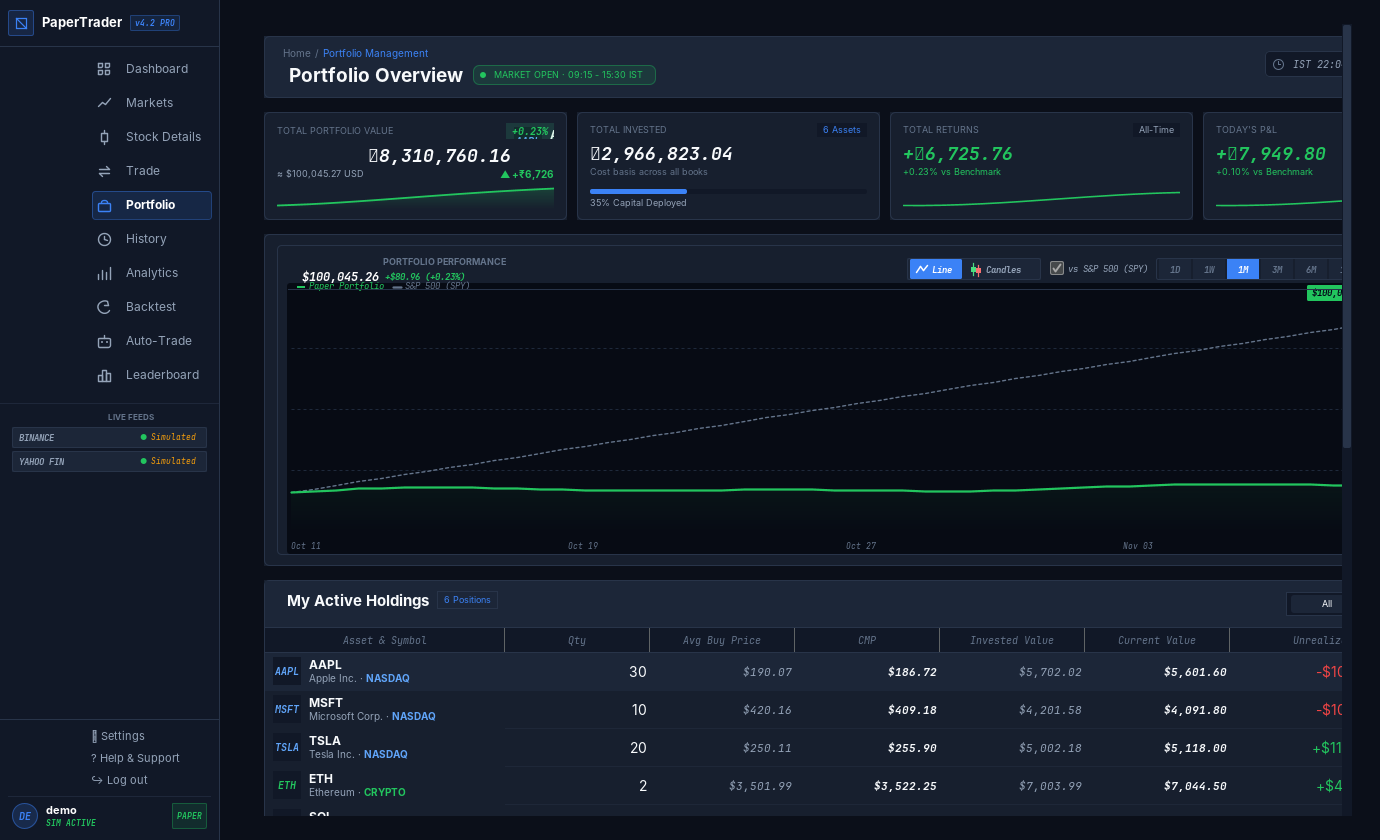
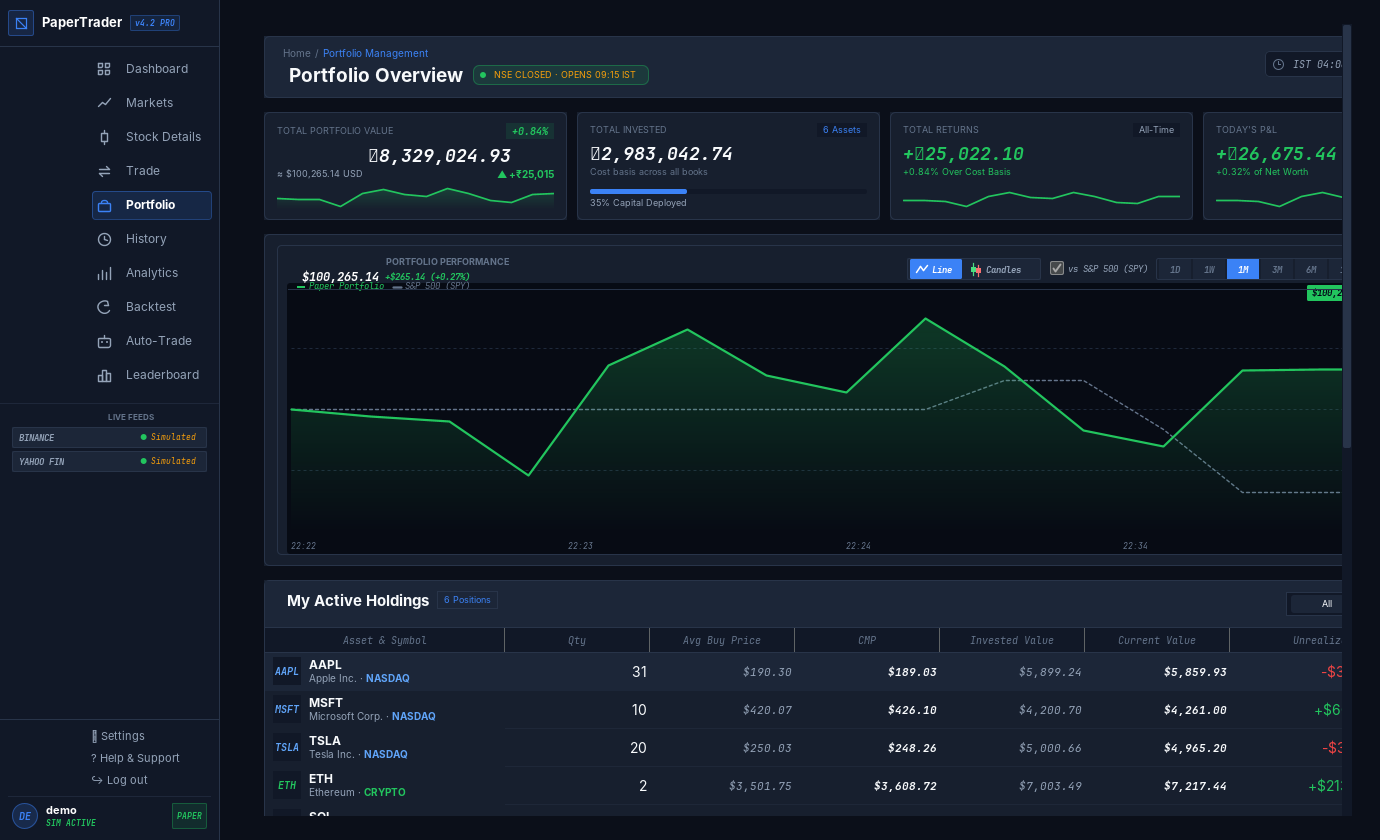
Spiral loop 7: document real market data, trade statistics and new tests
README, SRS (FR-38 to FR-44, interfaces, traceability), Spiral model loop 7
and the OOP/SOLID mapping now describe MarketDataService, the fundamentals
and CoinGecko providers, TechnicalAnalysis and TradeStats. Test count is 68.

diff --git a/README.md b/README.md
@@ -33,6 +33,9 @@ and low coupling, an SRS using **FODA**, 4 UML diagrams, and the **Spiral** SDLC
 | Backtesting | Replay a year of **real daily candles** at **1x / 2x / 5x** or instantly. Strategies: SMA crossover, RSI, Buy & Hold, or your own price rule. Buy/sell arrows on the chart, equity curve, and comparison to buy & hold. |
 | Risk analytics | **Sharpe, Sortino, max drawdown, win rate, profit factor**, total return and an equity curve, both for your account and for every backtest. |
 | Auto-trading | Start **bots** that follow a strategy or a custom IF/THEN price rule and place real paper orders, with a live activity log. |
+| Market overview | Real index levels (NIFTY 50, SENSEX, BANK NIFTY, NIFTY IT, S&P 500, NASDAQ 100, DOW, RUSSELL 2000), India VIX / VIX, total crypto market cap, market breadth, turnover, sector heatmap and "most active / volume surge / near 52-week high" cards, all calculated from live data. |
+| Stock details | Real day and 52-week ranges, volume, VWAP, market cap, P/E, EPS, dividend yield, beta, yearly revenue/profit, margins, debt/equity, major holders, analyst target, a technical rating from 13 indicators, peers and latest news. Missing values show **N/A**, never made-up numbers. |
+| Trade history analytics | Win rate, profit factor, streaks, average holding time (FIFO), best/worst asset, daily P&L bars, monthly P&L calendar, short/long-term capital gains and a tax estimate, all from your own trades. |
 | Multi-user | Register / log in, **leaderboard** ranking all traders by net worth, **reset account** to start over. |
 | 3D | Rotatable JavaFX 3D portfolio chart, spinning 3D coin on the login screen. |
 
@@ -42,7 +45,7 @@ Requirements: **Java 17+** and **Maven** (IntelliJ IDEA / Eclipse / VS Code can 
 
 ```bash
 mvn compile exec:java          # start the app
-mvn test                       # run the 58 unit tests
+mvn test                       # run the 68 unit tests
 mvn package                    # build target/paper-trading-simulator-1.0.0.jar
 java -jar target/paper-trading-simulator-1.0.0.jar
 ```
@@ -55,7 +58,10 @@ Log in with **demo / demo** (created on first run with some sample holdings), or
 |---|---|---|---|
 | Crypto (BTC, ETH, SOL) | **Binance**: the exchange's own last traded price (USDT ≈ USD) | No | every 3 s |
 | Stocks & ETFs (AAPL, MSFT, GOOGL, TSLA, AMZN, SPY, QQQ) | **Finnhub**: official real-time US exchange quotes | Free key | every 15 s |
-| Stocks & ETFs (when no Finnhub key) | **Yahoo Finance** | No | every 15 s |
+| Stocks & ETFs (when no Finnhub key), Indian stocks (`.NS`) | **Yahoo Finance** | No | every 15 s |
+| Day/52-week stats, indices, VIX, USD/INR | **Yahoo Finance** chart API | No | every 60 s |
+| Fundamentals, holders, analyst target, news | **Yahoo Finance** quoteSummary + search | No | every 30 min / 10 min |
+| Total crypto market cap | **CoinGecko** `/global` | No | every 5 min |
 
 It works without any setup (Binance + Yahoo). For the most accurate stock prices, add a free Finnhub key:
 
@@ -97,24 +103,26 @@ src/main/java/com/papertrader/
 │                            OrderBookSimulator
 ├── strategy/                TradingStrategy ← SmaCrossover, Rsi, BuyAndHold, PriceRule; Indicators
 ├── backtest/                BacktestEngine (step-by-step historical replay)
-├── analytics/               PerformanceAnalyzer (Sharpe, Sortino, drawdown, win rate, profit factor)
+├── analytics/               PerformanceAnalyzer (Sharpe, Sortino, drawdown, win rate, profit factor),
+│                            TradeStats (FIFO holding time, streaks, capital gains from real trades)
 ├── bot/                     TradingBot, BotService (auto-trading)
 │                            User, Account, Portfolio, Holding, Transaction, enums
 ├── interfaces/              PriceFeed, PriceListener, QuoteProvider, HistoryProvider, FeeCalculator, EquityRepository,
 │                            Repository<T,ID>, TransactionRepository, Exportable
 ├── feed/                    LivePriceFeed (real prices) + Binance/Finnhub/Yahoo QuoteProviders,
+│                            YahooFundamentalsProvider, CoinGeckoGlobalProvider, Http, YahooSymbols,
 │                            SimulatedPriceFeed (offline random-walk prices)
 ├── fees/                    PercentageFeeCalculator, FlatFeeCalculator
 ├── repository/              InMemory… and File… repositories (CSV in data/)
 ├── service/                 AuthService, MarketService, TradingService, PortfolioService, ChartService,
-│                            AnalyticsService, LeaderboardService, AppContext
+│                            AnalyticsService, LeaderboardService, MarketDataService (cached real stats), AppContext
 ├── exception/               SimulatorException ← InsufficientFunds, InvalidOrder, Auth
-├── util/                    Formatter, PasswordHasher, CsvExporter, AppConfig
+├── util/                    Formatter, PasswordHasher, CsvExporter, AppConfig, MarketHours, MarketFormat
 └── ui/                      MainFrame, LoginPanel, BasePanel ← Dashboard/Market/Trade/
     ├── components/          Portfolio/History/Analytics/Backtest/AutoTrade/Leaderboard panels;
     │                        StatCard, LineChartPanel, CandleChartPanel, OrderBookPanel, StrategyPicker, TickerPanel, renderers
     └── three/               Base3DView ← Coin3DView, Portfolio3DView (JavaFX 3D)
-src/test/java/com/papertrader/   58 JUnit tests
+src/test/java/com/papertrader/   68 JUnit tests
 docs/
 ├── SRS.md                   Software Requirements Specification (FODA)
 ├── SpiralModel.md           SDLC: 4 spiral loops

diff --git a/docs/SRS.md b/docs/SRS.md
@@ -70,6 +70,8 @@ internet; without internet it switches to simulated prices. Data is stored in CS
 11. Backtest strategies with historical replay (1x/2x/5x)
 12. Risk analytics: Sharpe, Sortino, max drawdown, win rate, profit factor
 13. Auto-trading bots driven by strategies or custom price rules
+14. Real market overview (indices, VIX, breadth, sectors), stock fundamentals, news and technical rating
+15. Trade statistics, P&L calendar and capital-gains tax estimate from the user's own trades
 
 ### 2.3 User classes
 | User | Description |
@@ -235,6 +237,13 @@ See [uml/component-diagram.png](uml/component-diagram.png).
 | FR-35 | The system shall let the user start **trading bots** that apply a strategy to live 1-minute candles every 5 seconds and place paper orders; a bot only sells units it bought itself. | High |
 | FR-36 | The system shall show a **leaderboard** of all users ranked by net worth with return %, realized P&L and number of trades. | Medium |
 | FR-37 | The system shall let a user **reset** their account (cash back to the start, holdings, history, pending orders and bots cleared) after confirmation. | Medium |
+| FR-38 | The system shall show real day high/low, open, previous close, volume, VWAP and 52-week range for each asset (Yahoo / Binance), computed from candles when offline. | High |
+| FR-39 | The system shall show real index levels for India (NIFTY 50, SENSEX, BANK NIFTY, NIFTY IT), the USA (S&P 500, NASDAQ 100, DOW, RUSSELL 2000) and crypto (BTC, ETH, SOL, total market cap from CoinGecko), plus India VIX / VIX. | Medium |
+| FR-40 | The system shall show fundamentals (market cap, P/E, EPS, dividend yield, beta, margins, debt/equity, yearly financials, major holders, analyst target) and the latest news for a stock. | Medium |
+| FR-41 | The system shall compute a technical rating (buy / neutral / sell votes) from moving averages, RSI, MACD, Bollinger bands and momentum on real candles. | Medium |
+| FR-42 | The system shall show **N/A** for any value it cannot obtain, and never display invented numbers. | High |
+| FR-43 | The system shall compute trade statistics from the user's transactions: win rate, profit factor, win/loss streaks, average holding time (FIFO), best/worst asset, daily P&L, a monthly P&L calendar and short/long-term capital gains with a tax estimate. | Medium |
+| FR-44 | The system shall show the market status (open/closed) using real NSE (09:15–15:30 IST) and US (09:30–16:00 ET) trading hours. | Low |
 
 ### 4.2 Non-functional requirements
 
@@ -258,7 +267,9 @@ See [uml/component-diagram.png](uml/component-diagram.png).
 - **Communication interfaces (HTTPS, JSON):**
   - Binance `GET /api/v3/ticker/24hr?symbols=[...]` → `lastPrice`, `openPrice`
   - Finnhub `GET /api/v1/quote?symbol=..&token=..` → `c` (current), `pc` (previous close)
-  - Yahoo Finance `GET /v8/finance/chart/{symbol}` → `meta.regularMarketPrice`, `meta.chartPreviousClose`
+  - Yahoo Finance `GET /v8/finance/chart/{symbol}` → `meta.regularMarketPrice`, `meta.chartPreviousClose`, day high/low, volume, 52-week range
+  - Yahoo Finance `GET /v10/finance/quoteSummary/{symbol}` (cookie + crumb) → fundamentals, holders, analyst target; `GET /v1/finance/search` → news
+  - CoinGecko `GET /api/v3/global` → total crypto market cap and 24 h change
 - **Files:** `data/users.csv`, `data/holdings.csv`, `data/transactions.csv`.
 
 ---
@@ -297,3 +308,7 @@ Diagram: [uml/use-case-diagram.png](uml/use-case-diagram.png)
 | FR-35 | `TradingBot`, `BotService` | manual (screenshot) |
 | FR-36..37 | `LeaderboardService`, `TradingService.resetAccount` | `LeaderboardAndResetTest` |
 | FR-20 | `Portfolio3DView` | manual (screenshot) |
+| FR-38..40, FR-42 | `MarketDataService`, `YahooQuoteProvider`, `BinanceQuoteProvider`, `YahooFundamentalsProvider`, `CoinGeckoGlobalProvider` | `MarketDataParsingTest` |
+| FR-41 | `TechnicalAnalysis` | `TechnicalAnalysisTest` |
+| FR-43 | `TradeStats` | `TradeStatsTest` |
+| FR-44 | `MarketHours` | manual |

diff --git a/docs/SpiralModel.md b/docs/SpiralModel.md
@@ -1,7 +1,7 @@
 # SDLC: Spiral Model
 
 We built PaperTrader 3D with the **Spiral model** (Boehm, 1988). The project went around the
-spiral six times. Each loop has the same four quadrants:
+spiral seven times. Each loop has the same four quadrants:
 
 1. **Determine objectives** (planning): what this loop must deliver
 2. **Identify and resolve risks** (risk analysis): what could go wrong, and a prototype or test to reduce it
@@ -87,3 +87,13 @@ calculations) could be tried early in small prototypes before the full app was b
 | Risk resolution | Every formula is unit-tested against hand-calculated values. `BacktestEngine` only gives the strategy `candles.subList(0, i + 1)`, so it can never see the future. Each bot tracks its own position and only sells what it bought. Sharpe/Sortino use **daily** returns and show "n/a" until there are 3 days of data. History loads on a background thread. The same `TradingStrategy` interface is reused by backtests and bots. |
 | Develop | Packages `execution`, `strategy`, `backtest`, `analytics`, `bot`; `ChartService`, `AnalyticsService`, `LeaderboardService`; 4 new pages (Analytics, Backtest, Auto-Trade, Leaderboard); candlestick chart and order book components. Existing classes changed only where needed (`TradingService` gets an `ExecutionModel` through its constructor, `Transaction` gained realized P&L). |
 | Evaluate | 58 tests green. The UI was then redesigned as a trading terminal (sidebar with 10 pages); the new features were fitted into it: the terminal's candlestick chart now reads real history from `ChartService`, its depth panel uses `OrderBookSimulator`, the order ticket gained Take-Profit, and Portfolio/History show the real realized P&L. Margin/leverage was considered and left out to keep the project explainable. Future ideas: margin accounts, short selling, OCO/bracket orders, Indian NSE data. |
+
+## Loop 7: Real data everywhere
+
+| Quadrant | Work done |
+|---|---|
+| Objectives | Replace every sample number in the redesigned terminal UI with real data: index levels, VIX, day and 52-week ranges, volume, fundamentals, news, technical rating, sector heatmap, period P&L, trade statistics, calendar and tax report. The look of the UI must not change. |
+| Risks | *Unofficial APIs* (Yahoo quoteSummary needs a cookie + crumb and can change). *Too many requests* (pages refresh every second). *Showing invented numbers when data is missing.* *UI freezing on slow downloads.* *Mixing INR and USD values.* |
+| Risk resolution | `MarketDataService` caches every value with a maximum age and downloads on a background thread; pages only read the cache. Unknown values are `NaN` and shown as **N/A**. When offline, day/52-week stats and volume are computed from `ChartService` candles. JSON parsers are static methods tested with saved responses (`MarketDataParsingTest`). Trade statistics live in a separate, tested `TradeStats` class instead of inside the UI. USD/INR uses the live `INR=X` quote. |
+| Develop | `SnapshotProvider` and `FundamentalsProvider` interfaces; `YahooFundamentalsProvider`, `CoinGeckoGlobalProvider`, `Http`, `YahooSymbols`; `MarketDataService`; `TechnicalAnalysis`; `TradeStats`; `MarketHours`, `MarketFormat`. Markets, Stock Details, Trade, Dashboard, Portfolio and History pages now read these; sample rows and hardcoded values were removed. |
+| Evaluate | 68 tests green. Each page was compared with screenshots before and after to keep the same layout. Known limits: fundamentals depend on Yahoo's unofficial endpoint; Indian stock prices are in INR while the account cash is in USD (a currency-conversion step is a future improvement). |

diff --git a/docs/OOP-SOLID-Mapping.md b/docs/OOP-SOLID-Mapping.md
@@ -72,6 +72,8 @@ Every concept below points to the exact file to open during the viva.
 | `HistoryProvider` | `BinanceQuoteProvider`, `YahooQuoteProvider`, `SimulatedHistoryProvider` | candles for charts/backtests. Binance and Yahoo implement **two interfaces** (`QuoteProvider` + `HistoryProvider`); Finnhub implements only one (ISP) |
 | `EquityRepository` | `InMemoryEquityRepository`, `FileEquityRepository` | equity curve storage |
 | `Refreshable` | `BasePanel` | every page can refresh itself |
+| `SnapshotProvider` | `YahooQuoteProvider`, `BinanceQuoteProvider` | day / 52-week stats for any asset |
+| `FundamentalsProvider` | `YahooFundamentalsProvider` | company data and news, swappable for another source |
 
 ## 3. SOLID principles
 | Principle | Where it shows |
